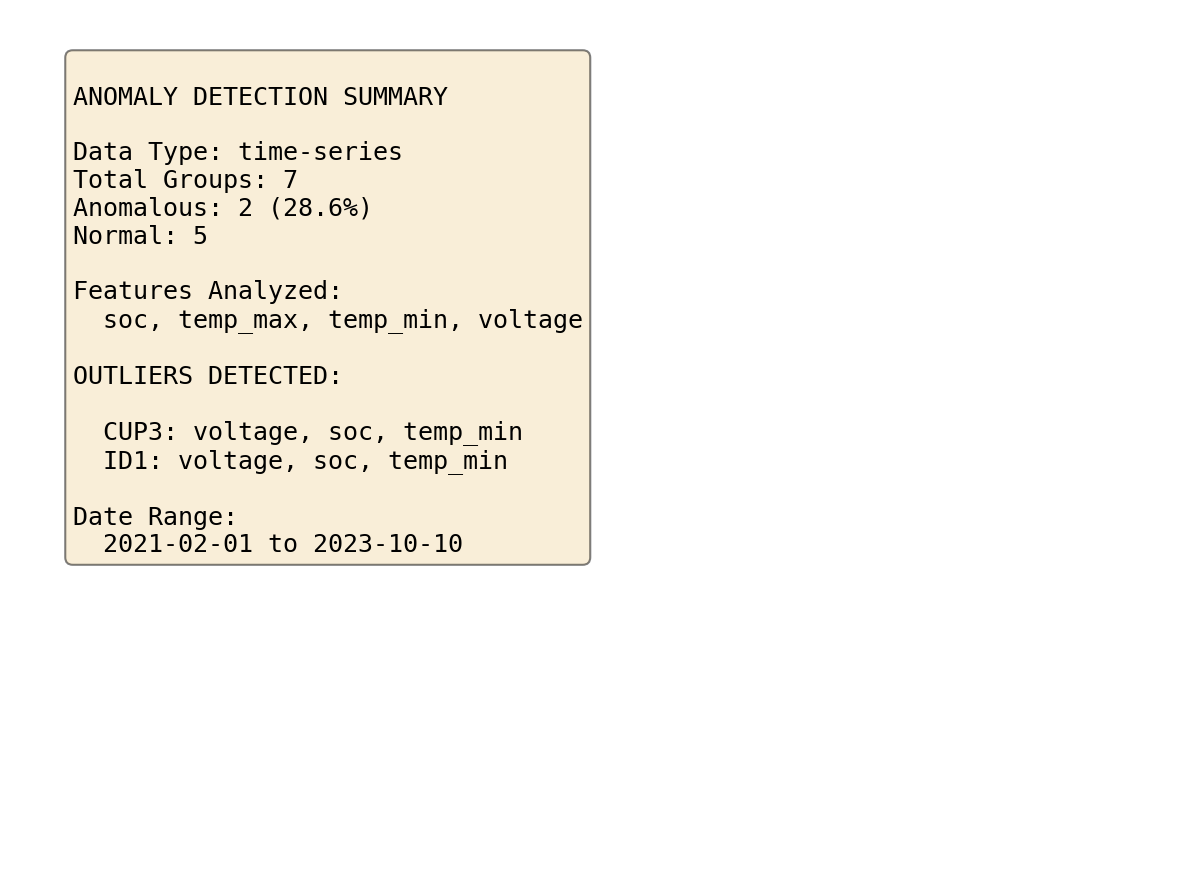
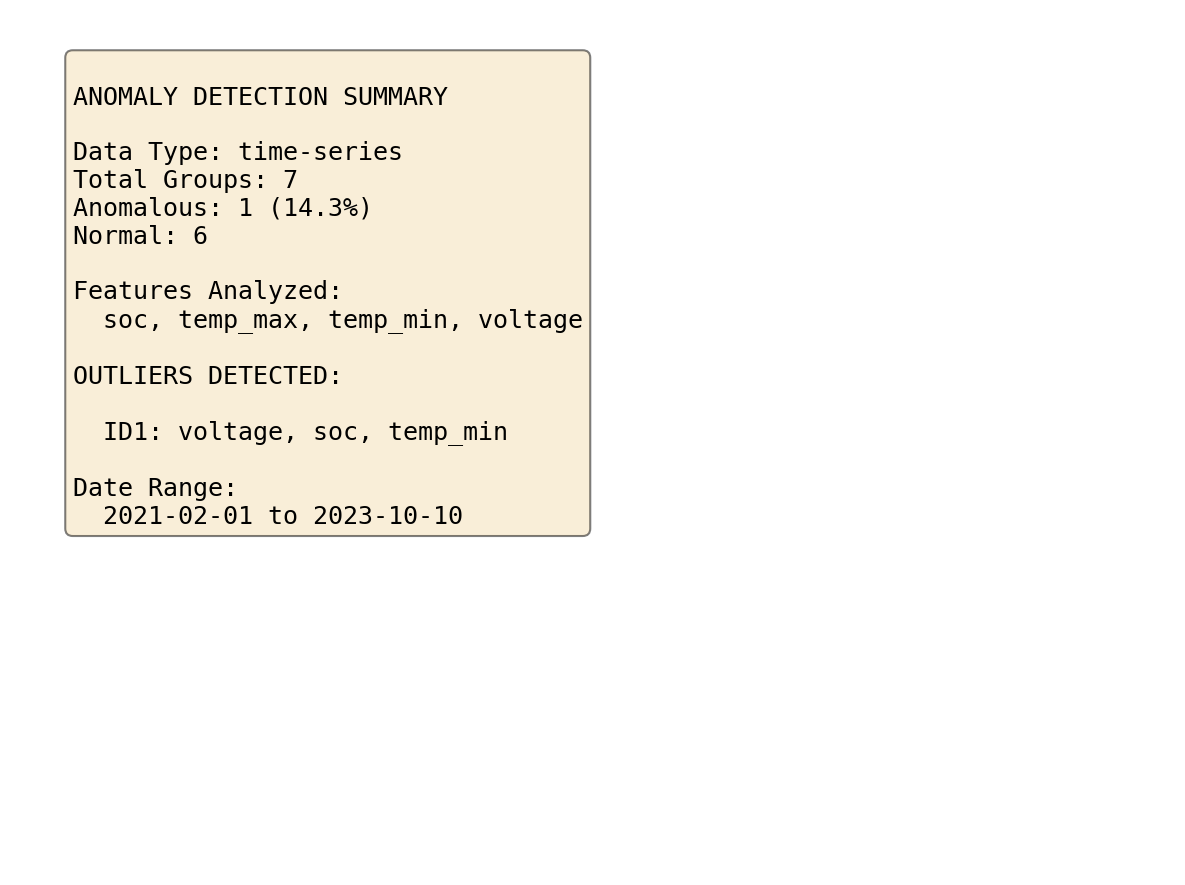
ID1 detection working

Changed region(s): [[0.0312, 0.4576, 0.4996, 0.6407], [0.2498, 0.2136, 0.281, 0.2441]]

diff --git a/src/anomaly_detector.py b/src/anomaly_detector.py
@@ -507,56 +507,48 @@ def detect_group_outliers(feature_matrix: np.ndarray, group_ids: List[str],
         _print(f"    Skipping Isolation Forest (need ≥3 groups, have {n_groups})")
         iso_predictions = np.ones(n_groups)
 
-    # Method 4: Combined Scoring with Degradation Priority (for time-series)
-    if data_type == 'time-series':
-        _print("\n  Method 4: Combined Scoring (degradation-weighted)")
+    # Ranking by Anomaly Score (same as v2)
+    _print("\n  Anomaly Score Ranking:")
+    ranked_indices = np.argsort(anomaly_scores)[::-1]  # Highest anomaly score first
 
-        # Combined score: prioritize degradation (positive slopes) over pure statistical deviation
-        # Formula: 70% degradation score + 30% anomaly score (normalized)
-        anomaly_scores_normalized = (anomaly_scores - np.min(anomaly_scores)) / (np.max(anomaly_scores) - np.min(anomaly_scores) + 1e-10)
-
-        combined_scores = 0.7 * degradation_scores_normalized + 0.3 * anomaly_scores_normalized
-
-        _print("    Combined scores (70% degradation + 30% anomaly):")
-        for i, group_id in enumerate(group_ids):
-            _print(f"      {group_id}: combined={combined_scores[i]:.3f} (degradation={degradation_scores_normalized[i]:.3f}, anomaly={anomaly_scores_normalized[i]:.3f})")
-
-        # Rank by combined score (highest = most degraded)
-        ranked_indices = np.argsort(combined_scores)[::-1]
-        ranking_scores = combined_scores
-    else:
-        _print("\n  Method 4: Anomaly Score Ranking")
-        ranked_indices = np.argsort(anomaly_scores)[::-1]  # Highest first
-        ranking_scores = anomaly_scores
-
-    _print("\n  Final Ranking (worst to best):")
+    _print("  Final Ranking (worst to best):")
     for rank, idx in enumerate(ranked_indices):
         group_id = group_ids[idx]
-        score = ranking_scores[idx]
+        score = anomaly_scores[idx]
         marker = "OUTLIER" if rank == 0 else ""
         _print(f"      {rank+1}. {group_id}: {score:.3f} {marker}")
 
-    # Determine outliers: Top combined score OR flagged by Isolation Forest
-    # For time-series: also flag if degradation score is significantly positive
+    # Determine outliers: Top anomaly score OR flagged by Isolation Forest
+    # For time-series: additionally require POSITIVE degradation (increasing variability)
     outlier_flags = {}
-    for i, group_id in enumerate(group_ids):
-        is_top_score = (i == ranked_indices[0])
-        is_if_outlier = (iso_predictions[i] == -1)
 
-        # Additional check: flag if degradation score is significantly above mean
-        if data_type == 'time-series':
-            is_high_degradation = degradation_scores[i] > (np.mean(degradation_scores) + np.std(degradation_scores))
-        else:
-            is_high_degradation = False
+    if data_type == 'time-series':
+        # Find the top-ranked group with positive degradation
+        top_degrading_group = None
+        for idx in ranked_indices:
+            if degradation_scores[idx] > 0:
+                top_degrading_group = group_ids[idx]
+                break
 
-        outlier_flags[group_id] = is_top_score or is_if_outlier or is_high_degradation
+        for i, group_id in enumerate(group_ids):
+            is_if_outlier = (iso_predictions[i] == -1)
+            has_positive_degradation = degradation_scores[i] > 0
+
+            # Flag if: (top-ranked with positive degradation) OR (IF outlier with positive degradation)
+            is_top_degrading = (group_id == top_degrading_group)
+            outlier_flags[group_id] = has_positive_degradation and (is_top_degrading or is_if_outlier)
+    else:
+        # For cross-sectional data, use original v2 logic
+        for i, group_id in enumerate(group_ids):
+            is_top_anomaly = (i == ranked_indices[0])
+            is_if_outlier = (iso_predictions[i] == -1)
+            outlier_flags[group_id] = is_top_anomaly or is_if_outlier
 
     # Store scores in groups for visualization
     for i, group in enumerate(parameter_anomaly_group_array):
         group['zScore'] = float(anomaly_scores[i])
         if data_type == 'time-series':
             group['degradationScore'] = float(degradation_scores[i])
-            group['combinedScore'] = float(ranking_scores[i])
 
     # Update group-level isOutlier flags
     for group in parameter_anomaly_group_array:

diff --git a/src/customers_transform.py b/src/customers_transform.py
@@ -1,0 +1,130 @@
+"""
+Transform customers.csv into the format expected by detect_anomalies().
+
+This is CROSS-SECTIONAL data (no time dimension).
+
+Input format (customers.csv):
+    customer_id,avg_transaction,monthly_logins,support_tickets,account_age_days
+    CUST_001,48.97,11.58,2.65,521.84
+
+Output format:
+    {
+        "dataType": "cross-sectional",
+        "groups": [
+            {
+                "parameterAnomalyGroupId": "CUST_001",
+                "featureArray": [
+                    {"featureName": "avg_transaction", "parameterHistoryArray": [{"value": 48.97}]},
+                    {"featureName": "monthly_logins", "parameterHistoryArray": [{"value": 11.58}]}
+                ]
+            }
+        ]
+    }
+"""
+
+import pandas as pd
+import uuid
+import json
+from typing import Dict, Any
+from pathlib import Path
+
+
+def load_config(config_path: str = None) -> Dict[str, Any]:
+    """
+    Load configuration file with min/max constraints.
+
+    Args:
+        config_path: Path to config JSON. If None, uses default location.
+
+    Returns:
+        Config dict with 'constraints' key mapping feature names to {min, max}
+    """
+    if config_path is None:
+        config_path = Path(__file__).parent.parent / "config" / "customers.json"
+
+    if Path(config_path).exists():
+        with open(config_path, 'r') as f:
+            return json.load(f)
+    return {"constraints": {}}
+
+
+def transform(csv_path: str = None, config_path: str = None) -> Dict[str, Any]:
+    """
+    Transform customers.csv to anomaly detector input format.
+
+    Args:
+        csv_path: Path to customers.csv. If None, uses default location.
+        config_path: Path to config JSON with min/max constraints. If None, uses default.
+
+    Returns:
+        Dict in the format expected by detect_anomalies()
+    """
+    if csv_path is None:
+        csv_path = Path(__file__).parent.parent / "datasets" / "customers.csv"
+
+    # Load config with min/max constraints
+    config = load_config(config_path)
+    constraints = config.get("constraints", {})
+
+    df = pd.read_csv(csv_path)
+
+    # Feature columns (exclude ID column)
+    feature_cols = [c for c in df.columns if c != 'customer_id']
+
+    groups = []
+    filtered_counts = {}
+
+    for _, row in df.iterrows():
+        customer_id = row['customer_id']
+        feature_array = []
+
+        for col in feature_cols:
+            value = row[col]
+
+            # Skip NaN values
+            if pd.notna(value):
+                # Apply min/max filtering if constraints exist
+                if col in constraints:
+                    min_val = constraints[col].get('min', float('-inf'))
+                    max_val = constraints[col].get('max', float('inf'))
+                    if not (min_val <= value <= max_val):
+                        filtered_counts[col] = filtered_counts.get(col, 0) + 1
+                        continue
+
+                # Cross-sectional: single value per feature (no time dimension)
+                feature_array.append({
+                    "featureName": col,
+                    "parameterHistoryArray": [{
+                        "parameterHistoryId": str(uuid.uuid4()),
+                        "type": "number",
+                        "value": float(value)
+                    }]
+                })
+
+        groups.append({
+            "parameterAnomalyGroupId": customer_id,
+            "featureArray": feature_array
+        })
+
+    # Log filtered values
+    if filtered_counts:
+        print("      Min/max filtering applied:")
+        for feature, count in filtered_counts.items():
+            constraint = constraints[feature]
+            print(f"        {feature}: {count} values filtered (valid range: {constraint['min']}-{constraint['max']})")
+
+    return {
+        "dataType": "cross-sectional",
+        "groups": groups
+    }
+
+
+if __name__ == "__main__":
+    # Test the transform
+    result = transform()
+    print(f"Transformed {len(result['groups'])} groups (cross-sectional)")
+    for group in result['groups']:
+        print(f"  {group['parameterAnomalyGroupId']}:")
+        for feature in group['featureArray']:
+            value = feature['parameterHistoryArray'][0]['value']
+            print(f"    {feature['featureName']}: {value:.2f}")

diff --git a/main.py b/main.py
@@ -3,8 +3,9 @@
 Anomaly Detection Analysis - Main Entry Point
 
 Interactive menu to choose which dataset to analyze:
-1. Traffic (Junction data)
-2. Vehicles (EV battery data)
+1. Traffic (Junction data) - Time-series
+2. Vehicles (EV battery data) - Time-series
+3. Customers (Profile data) - Cross-sectional
 """
 
 import sys
@@ -17,6 +18,7 @@ sys.path.insert(0, str(Path(__file__).parent / "src"))
 from anomaly_detector import detect_anomalies
 from traffic_transform import transform as transform_traffic
 from vehicles_transform import transform as transform_vehicles
+from customers_transform import transform as transform_customers
 
 
 def print_header():
@@ -31,8 +33,9 @@ def print_menu():
     """Print dataset selection menu."""
     print("Select dataset to analyze:")
     print()
-    print("  1. Traffic (Junction vehicle counts)")
-    print("  2. Vehicles (EV battery data)")
+    print("  1. Traffic (Junction vehicle counts) - Time-series")
+    print("  2. Vehicles (EV battery data) - Time-series")
+    print("  3. Customers (Profile data) - Cross-sectional")
     print()
     print("  q. Quit")
     print()
@@ -128,6 +131,33 @@ def analyze_vehicles():
     return results
 
 
+def analyze_customers():
+    """Run anomaly detection on customer data (cross-sectional)."""
+    print()
+    print("[1/4] Loading and transforming customer data...")
+    request_data = transform_customers()
+    print(f"      Loaded {len(request_data['groups'])} customers (cross-sectional)")
+
+    # Set up diagram save path
+    diagram_path = Path(__file__).parent / "diagrams" / "customers" / "anomaly_analysis.png"
+
+    print()
+    print("[2/4] Running anomaly detection...")
+    results = detect_anomalies(request_data, save_plots_path=str(diagram_path))
+
+    print()
+    print("[3/4] Saving results...")
+    output_path = save_results(results, "customers_results.json")
+    print(f"      Saved to: {output_path}")
+
+    print()
+    print(f"[4/4] Diagram saved to: {diagram_path}")
+
+    print_summary(results, "Customers")
+
+    return results
+
+
 def main():
     """Main entry point."""
     print_header()
@@ -135,7 +165,7 @@ def main():
     while True:
         print_menu()
 
-        choice = input("Enter choice (1, 2, or q): ").strip().lower()
+        choice = input("Enter choice (1, 2, 3, or q): ").strip().lower()
 
         if choice == '1':
             analyze_traffic()
@@ -143,11 +173,14 @@ def main():
         elif choice == '2':
             analyze_vehicles()
             print()
+        elif choice == '3':
+            analyze_customers()
+            print()
         elif choice == 'q':
             print("Goodbye!")
             break
         else:
-            print("Invalid choice. Please enter 1, 2, or q.")
+            print("Invalid choice. Please enter 1, 2, 3, or q.")
             print()
 
 
